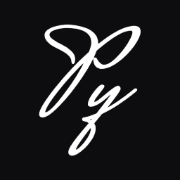
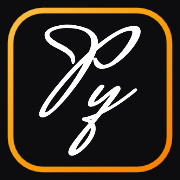
Иконка беты: оранжевый ободок цвета полосы беты, у иконки вкладки — кольцо (кэш rem-v209)

diff --git a/sw.js b/sw.js
@@ -1,4 +1,4 @@
-const CACHE = 'rem-v208';
+const CACHE = 'rem-v209';
 const NUDGE_C = 'rem-nudge', NUDGE_URL = new URL('nudge', self.registration.scope).href;   // помощник пишет сам: текст пуша до открытия чата (aiNudgeOpen в assistant.js)
 const FILES = ['./', './index.html', './beta.html', './privacy.html', './consent.html', './terms.html', './manifest.json', './icon-180.png', './icon-192.png', './icon-512.png', './favicon.png',
   './css/fonts.css', './css/app.css', './css/sections.css', './css/ui2.css', './css/skins.css', './css/glass.css',

diff --git a/CLAUDE.md b/CLAUDE.md
@@ -67,7 +67,7 @@ PWA-календарь-планер **Parsimony** (название — конс
 - Тесты: `node tools/test-reminders.mjs` и `node tools/test-reminders-io.mjs` — перед каждым изменением функции `reminders` (первый сверяет её с `js/core.js`, второй — запросы к базе на 450 выдуманных людях: порции, страницы, только нужные поля); `node tools/test-assistant.mjs` — перед изменением функции `assistant`; `node tools/test-names.mjs` — недоступные имена; `node tools/test-admin.mjs` — перед изменением функции `admin` (кто может пользоваться, проверка полей, записи людей не читаются); `node tools/test-friends.mjs` — друзья, переписка и закрытая бета (с `PGLITE_DIR` — весь SQL в настоящем Postgres: ник на сервере как в приложении, каждый видит только своё, писать — только другу, бета — только админам и открытым); `node tools/test-coins.mjs` — ParsiCoins (каталог coins.sql = shop.js; с `PGLITE_DIR` — монеты не дописать, награда один раз, лимиты заданий, покупки, заморозка; без записей, по примеру и задним числом — нельзя; условия на сервере = в приложении на случайных записях); `node tools/test-signup.mjs` — перед изменением функции `signup` (закрыто — отказ, лимиты раньше капчи, капча раньше создания, почта не сохраняется). Перед выпуском — все тесты, `check-js`, поиск секретов в `main..dev`; команды выпуска — цепочкой через `&&`, не через `;` и не через `set -e` (в этой оболочке он не останавливает, проверено 1 ноября 2026).
 
 ## Бета и рабочая версия
-- **Рабочая** — https://app.parsimony.ru, ветка `main`, только по «выпускаем». **Бета** — https://beta.parsimony.ru, ветка `dev`: `bash tools/deploy-beta.sh` кладёт снимок `dev` одним коммитом (`push -f`) в репозиторий `greed1-alt/parsimony-beta`. Отличия беты: `CNAME` = `beta.parsimony.ru`, «Parsimony β» в `manifest.json`, без `tools/` и `docs/`, иконки из `tools/beta-icons/`, если папка есть (с 31 октября 2026 они те же, что у рабочей: пробная «Py» — на всех сайтах, пока нет окончательной).
+- **Рабочая** — https://app.parsimony.ru, ветка `main`, только по «выпускаем». **Бета** — https://beta.parsimony.ru, ветка `dev`: `bash tools/deploy-beta.sh` кладёт снимок `dev` одним коммитом (`push -f`) в репозиторий `greed1-alt/parsimony-beta`. Отличия беты: `CNAME` = `beta.parsimony.ru`, «Parsimony β» в `manifest.json`, без `tools/` и `docs/`, иконки из `tools/beta-icons/`, если папка есть (пробная «Py», как у рабочей, но с 23 ноября 2026 — с оранжевым ободком цвета полосы беты `#f59e0b`, чтобы на экране «Домой» бету не путать с рабочей).
 - На адресе `beta.*` (`IS_BETA` в `core.js`): значок «β» (`BETA_PILL`), янтарная полоса сверху, заголовок «Parsimony β» (`APP_TITLE`).
 - **Закрытая бета** (3 ноября 2026): на бете приложение открывается только после входа и только тем, кого пускает `beta_ok` — админы и `beta_access` (Админка → человек → «Открыть доступ к бете», действие `beta` функции `admin`); остальным — экран «Закрытая бета» (`betaStart` / `betaGate` / `betaLogin` в cloud.js; проверенный доступ — `remapp_beta`). Не прошёл после кода — выход без синхронизации. Поисковикам бету не показывают: `deploy-beta.sh` кладёт `robots.txt` и `noindex`.
 - **Сервер у беты и рабочей общий — свой, https://api.parsimony.ru** (с 6 ноября 2026; бета — с 5 ноября): адрес, publishable-ключ и открытый ключ уведомлений `VAPID_PUBLIC` (у нового сервера новая пара) — в `core.js`. Токен входа помнит свой сервер (`auth.srv`), чужой сразу обменивается по refresh-токену (сеансы перенесены); подписка устройства со старым ключом переподписывается молча (`pushKeyOk`, `pushSubFresh` в `notify.js`). У отзыва `meta.site` — откуда он отправлен.
